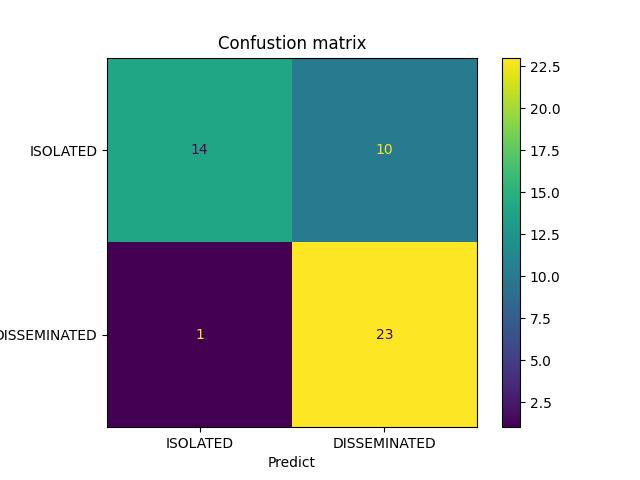
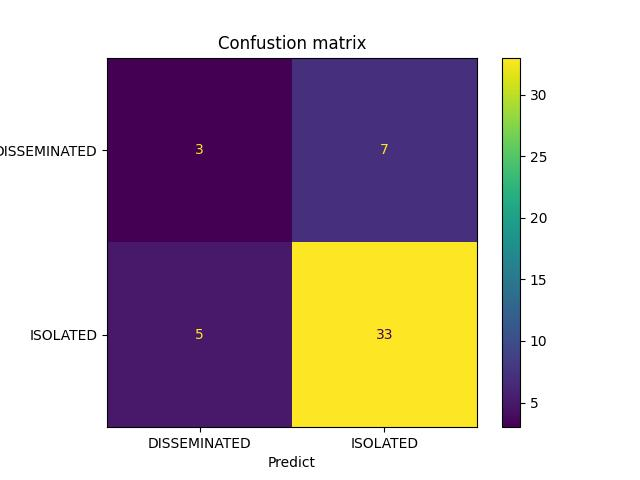
refactor: updated resnet model

diff --git a/surface_crack_detection/classification/models/resnet.py b/surface_crack_detection/classification/models/resnet.py
@@ -11,7 +11,7 @@ import tensorflow as tf
 import pickle
 
 # load dataset
-dataset = pd.read_csv('surface_crack_detection/classification/dataset_binary/dataset_final.csv')
+dataset = pd.read_csv('surface_crack_detection/classification/masks_dataset/dataset_final.csv')
 
 # split dataset
 train_df, test_df = train_test_split(dataset.sample(
@@ -110,13 +110,13 @@ print(f"\nmodel's loss: {(loss*100):0.2f}%")
 # creating confunsion matrix
 matrix = confusion_matrix(test_data.labels, predictions)
 classification = classification_report(
-    test_data.labels, predictions, target_names=["ISOLATED", "DISSEMINATED"])
+    test_data.labels, predictions, target_names=["DISSEMINATED", "ISOLATED"])
 display = ConfusionMatrixDisplay(matrix)
 
 display.plot()
 
-plt.xticks(ticks=np.arange(2), labels=["ISOLATED", "DISSEMINATED"])
-plt.yticks(ticks=np.arange(2), labels=["ISOLATED", "DISSEMINATED"])
+plt.xticks(ticks=np.arange(2), labels=["DISSEMINATED", "ISOLATED"])
+plt.yticks(ticks=np.arange(2), labels=["DISSEMINATED", "ISOLATED"])
 
 plt.ylabel('Actual')
 plt.xlabel('Predict')
